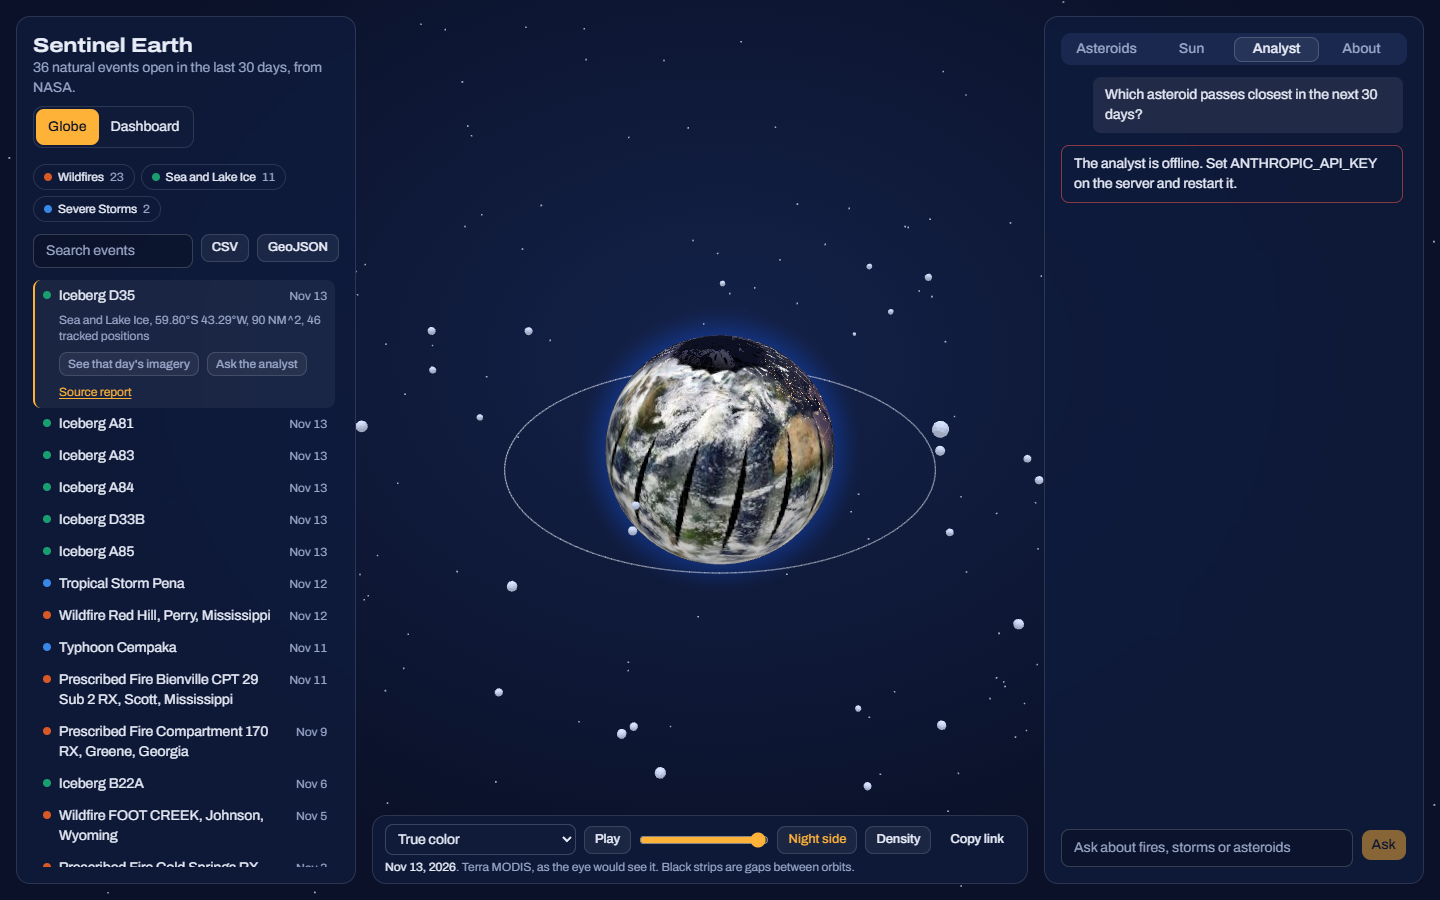
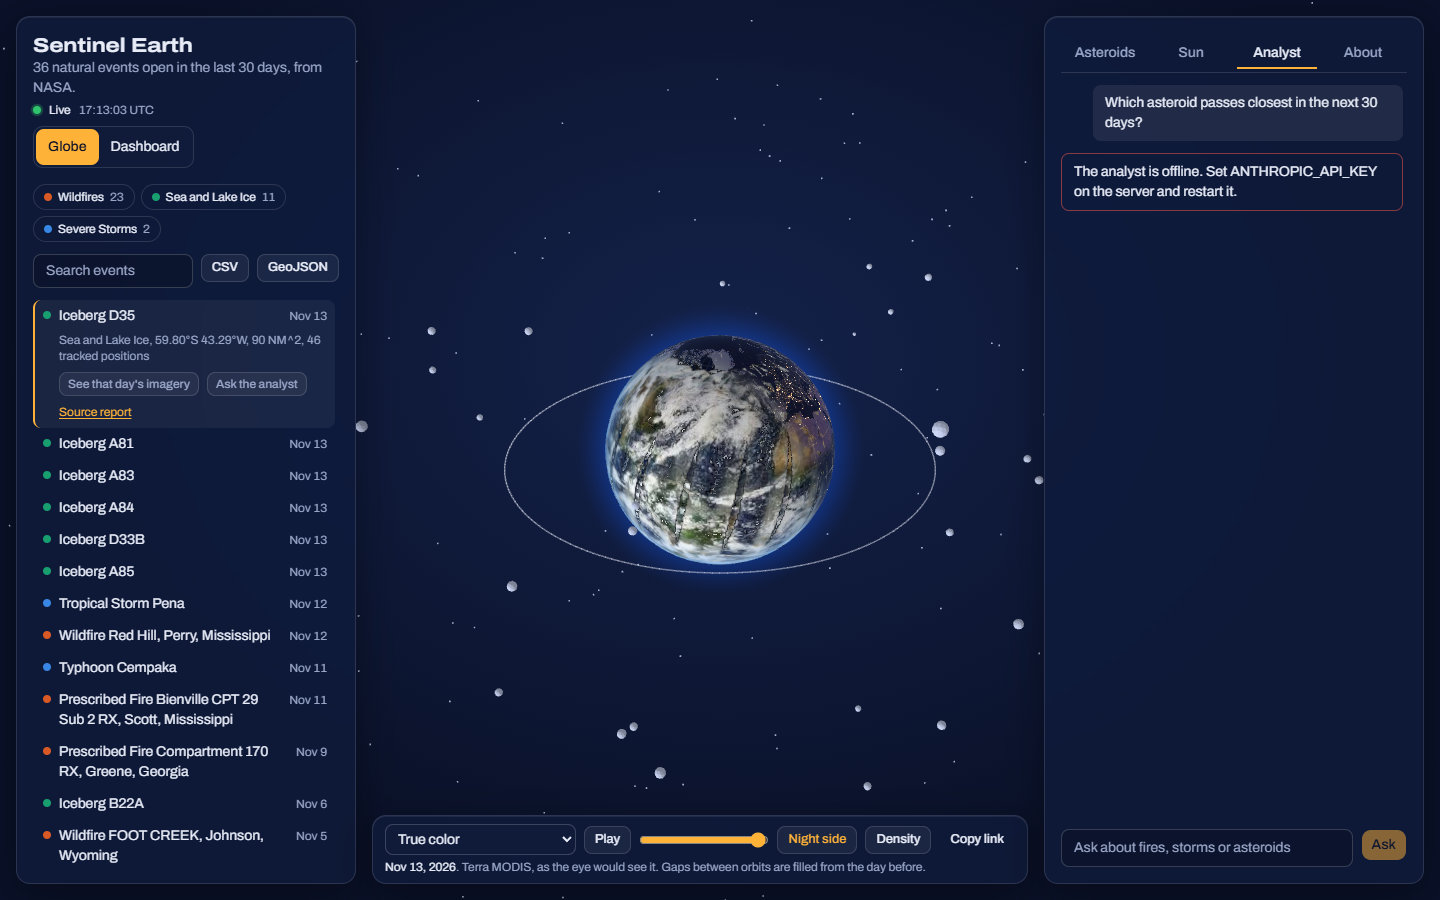
UI: live UTC clock, count-up key numbers with sparklines, tab underline, skeleton loading, press states, cursor coordinates, first-visit hint

diff --git a/src/components/Sentinel.tsx b/src/components/Sentinel.tsx
@@ -8,6 +8,7 @@ import { colorOf, LAYERS } from "@/lib/layers";
 import type { EonetEvent, EpicImage, Feed, Neo, SpaceEvent } from "@/lib/types";
 import About from "./About";
 import Analyst from "./Analyst";
+import Clock from "./Clock";
 import Dashboard from "./Dashboard";
 import GlobeView from "./GlobeView";
 import NeoPanel from "./NeoPanel";
@@ -47,8 +48,15 @@ const subscribeDesktop = (cb: () => void) => {
   return () => mq.removeEventListener("change", cb);
 };
 
+const TABS = [["events", "Events"], ["incoming", "Asteroids"], ["sun", "Sun"], ["analyst", "Analyst"], ["about", "About"]] as const;
+
 function FeedState({ error, loading, stale, retry, what }: { error?: string; loading: boolean; stale?: Feed<unknown>; retry: () => void; what: string }) {
-  if (loading) return <p className="text-sm text-muted-foreground">Loading {what}…</p>;
+  if (loading) return (
+    <div role="status" className="space-y-2.5">
+      <span className="sr-only">Loading {what}</span>
+      {[92, 78, 85, 64, 80, 70].map((w, i) => <div key={i} className="skeleton h-4" style={{ width: `${w}%` }} />)}
+    </div>
+  );
   if (error) return (
     <p role="alert" className="text-sm">
       {error} <button onClick={retry} className="text-primary underline underline-offset-2">Try again</button>
@@ -79,6 +87,15 @@ export default function Sentinel() {
   const [density, setDensity] = useState(false);
   const [copied, setCopied] = useState(false);
   const [seed, setSeed] = useState({ q: "", n: 0 });
+  // First-visit hint. Storage can be blocked (private windows), so the app works without it.
+  const [hint, setHint] = useState(() => {
+    try { return localStorage.getItem("sentinel-hint") !== "seen"; } catch { return true; }
+  });
+  const dismissHint = () => {
+    if (!hint) return;
+    setHint(false);
+    try { localStorage.setItem("sentinel-hint", "seen"); } catch { /* the hint just shows again next visit */ }
+  };
   const desktop = useSyncExternalStore(subscribeDesktop, () => window.matchMedia(desktopQuery).matches);
 
   const events = useFeed<EonetEvent>("/api/events");
@@ -142,7 +159,7 @@ export default function Sentinel() {
                 key={id}
                 aria-pressed={on}
                 onClick={() => setHidden(on ? [...hidden, id] : hidden.filter((h) => h !== id))}
-                className="flex items-center gap-1.5 rounded-full border border-border px-2.5 py-1 text-xs aria-[pressed=false]:opacity-45"
+                className="flex items-center gap-1.5 rounded-full border border-border px-2.5 py-1 text-xs hover:border-white/30 aria-[pressed=false]:opacity-45"
               >
                 <span className="size-2 rounded-full" style={{ background: colorOf(id) }} />
                 {c.title} <span className="tabular-nums text-muted-foreground">{c.n}</span>
@@ -206,6 +223,7 @@ export default function Sentinel() {
       <p className="text-sm text-muted-foreground">
         {all.length ? `${all.length} natural events open in the last 30 days, from NASA.` : "Live NASA data on fires, storms and passing asteroids."}
       </p>
+      <Clock saved={[events.feed, neos.feed, weather.feed, epic.feed].some((f) => f?.stale)} />
       </div>
       <div role="group" aria-label="View" className="pointer-events-auto inline-flex shrink-0 rounded-lg border border-border bg-card/70 p-0.5">
         {(["globe", "dashboard"] as const).map((v) => (
@@ -221,7 +239,7 @@ export default function Sentinel() {
 
   return (
     <main className="relative h-svh overflow-hidden">
-      <div className="absolute inset-x-0 top-0 h-[46svh] lg:h-full">
+      <div className="absolute inset-x-0 top-0 h-[46svh] lg:h-full" onPointerDown={dismissHint}>
         <GlobeView
           layer={layer}
           date={date}
@@ -239,6 +257,12 @@ export default function Sentinel() {
 
       {view === "dashboard" && (
         <Dashboard header={brand} events={events.feed} neos={neos.feed} weather={weather.feed} epic={epic.feed} selectedNeo={neoDes} onEvent={selectEvent} onNeo={showNeo} />
+      )}
+
+      {hint && view === "globe" && (
+        <p role="status" className="hud pointer-events-none absolute left-1/2 top-[19svh] -translate-x-1/2 whitespace-nowrap rounded-full px-4 py-2 text-sm lg:bottom-32 lg:top-auto">
+          Drag to rotate. Click a marker for details.
+        </p>
       )}
 
       {/* Hidden, not unmounted, so the analyst conversation survives a visit to the dashboard. */}
@@ -289,12 +313,17 @@ export default function Sentinel() {
         onValueChange={(v) => setTab(String(v))}
         className="hud absolute inset-x-0 bottom-0 top-[46svh] gap-3 rounded-t-xl p-3 lg:inset-x-auto lg:bottom-4 lg:right-4 lg:top-4 lg:w-[380px] lg:rounded-xl lg:p-4"
       >
-        <TabsList className="w-full">
-          {!desktop && <TabsTrigger value="events">Events</TabsTrigger>}
-          <TabsTrigger value="incoming">Asteroids</TabsTrigger>
-          <TabsTrigger value="sun">Sun</TabsTrigger>
-          <TabsTrigger value="analyst">Analyst</TabsTrigger>
-          <TabsTrigger value="about">About</TabsTrigger>
+        <TabsList variant="line" className="h-10! w-full border-b border-border">
+          {(desktop ? TABS.slice(1) : TABS).map(([value, name]) => (
+            // The underline grows from the left under the active tab.
+            <TabsTrigger
+              key={value}
+              value={value}
+              className="rounded-b-none hover:bg-white/5 after:origin-left after:scale-x-0 after:bg-primary after:opacity-100 after:transition-transform after:duration-300 data-active:after:scale-x-100 group-data-horizontal/tabs:after:bottom-[-1px]"
+            >
+              {name}
+            </TabsTrigger>
+          ))}
         </TabsList>
         {!desktop && <TabsContent value="events" className="flex min-h-0 flex-col">{eventsPanel}</TabsContent>}
         <TabsContent value="incoming" className="flex min-h-0 flex-col gap-3">

diff --git a/src/components/Dashboard.tsx b/src/components/Dashboard.tsx
@@ -1,6 +1,6 @@
 "use client";
 
-import { useMemo, useState, type MouseEvent, type ReactNode } from "react";
+import { useEffect, useMemo, useState, type MouseEvent, type ReactNode } from "react";
 import { regionOf } from "@/lib/geo";
 import { CATEGORY_ORDER, colorOf } from "@/lib/layers";
 import type { EonetEvent, EpicImage, Feed, Neo, SpaceEvent } from "@/lib/types";
@@ -73,12 +73,54 @@ function Bars({ rows, onPick, tip }: { rows: { name: string; n: number; color: s
   );
 }
 
-function Tile({ label, value, sub }: { label: string; value: string; sub: string }) {
+// Counts the first number in a value up from zero, once, when it first appears.
+function CountUp({ value }: { value: string }) {
+  const m = value.match(/\d+(\.\d+)?/);
+  const target = m ? Number(m[0]) : 0;
+  const decimals = m?.[1] ? m[1].length - 1 : 0;
+  const calm = useMemo(() => window.matchMedia("(prefers-reduced-motion: reduce)").matches, []);
+  const [shown, setShown] = useState(calm || !m ? target : 0);
+  useEffect(() => {
+    if (calm || !m) return;
+    let frame = 0;
+    const start = performance.now();
+    const step = (t: number) => {
+      const k = Math.min(1, (t - start) / 900);
+      setShown(target * (1 - (1 - k) ** 3));
+      if (k < 1) frame = requestAnimationFrame(step);
+    };
+    frame = requestAnimationFrame(step);
+    return () => cancelAnimationFrame(frame);
+  }, [target, calm, m === null]); // eslint-disable-line react-hooks/exhaustive-deps -- m is re-derived each render
+  if (!m) return <>{value}</>;
   return (
-    <div className="hud rounded-xl p-4">
+    <>
+      <span aria-hidden>{value.replace(m[0], shown.toFixed(decimals))}</span>
+      <span className="sr-only">{value}</span>
+    </>
+  );
+}
+
+// A single series, so no legend: the tile's label names it.
+function Sparkline({ values, label }: { values: number[]; label: string }) {
+  const max = Math.max(1, ...values);
+  const pts = values.map((v, i) => `${(i / (values.length - 1)) * 100},${22 - (v / max) * 20}`).join(" ");
+  return (
+    <svg viewBox="0 0 100 24" preserveAspectRatio="none" className="mt-2 h-7 w-full" role="img" aria-label={label}>
+      <title>{label}</title>
+      <polyline points={`0,24 ${pts} 100,24`} fill="rgba(255,178,56,0.12)" stroke="none" />
+      <polyline points={pts} fill="none" stroke="#FFB238" strokeWidth={2} vectorEffect="non-scaling-stroke" strokeLinejoin="round" strokeLinecap="round" />
+    </svg>
+  );
+}
+
+function Tile({ label, value, sub, spark }: { label: string; value: string; sub: string; spark?: { values: number[]; label: string } }) {
+  return (
+    <div className="hud rounded-xl p-4 transition-colors hover:border-white/20">
       <p className="text-sm text-muted-foreground">{label}</p>
-      <p className="font-heading text-3xl font-bold leading-tight tabular-nums [font-stretch:118%]">{value}</p>
+      <p className="font-heading text-3xl font-bold leading-tight tabular-nums [font-stretch:118%]">{value === "…" ? <span className="skeleton inline-block h-8 w-16 align-middle" /> : <CountUp value={value} />}</p>
       <p className="text-xs text-muted-foreground">{sub}</p>
+      {spark && spark.values.some((v) => v > 0) && <Sparkline {...spark} />}
     </div>
   );
 }
@@ -113,6 +155,8 @@ export default function Dashboard({ header, events, neos, weather, epic, selecte
     return list.map((d) => ({ d, items: all.filter((e) => e.date.slice(0, 10) === d) }));
   }, [all, now]);
   const peak = Math.max(1, ...days.map((x) => x.items.length));
+  const startedPerDay = days.map((x) => all.filter((e) => e.started.slice(0, 10) === x.d).length);
+  const passesPerDay = Array.from({ length: 30 }, (_, i) => rocks.filter((n) => Math.floor((new Date(n.date).getTime() - now) / DAY) === i).length);
 
   const regions = useMemo(() => {
     const m = new Map<string, EonetEvent[]>();
@@ -143,12 +187,23 @@ export default function Dashboard({ header, events, neos, weather, epic, selecte
         {header}
 
         <section aria-label="Key numbers" className="grid grid-cols-2 gap-3 lg:grid-cols-4">
-          <Tile label="Open natural events" value={events ? String(all.length) : "…"} sub="reported in the last 30 days" />
-          <Tile label="New this week" value={events ? String(fresh) : "…"} sub="events first reported in the last 7 days" />
+          <Tile
+            label="Open natural events"
+            value={events ? String(all.length) : "…"}
+            sub="reported in the last 30 days"
+            spark={{ values: days.map((x) => x.items.length), label: "Event reports per day over the last 30 days" }}
+          />
+          <Tile
+            label="New this week"
+            value={events ? String(fresh) : "…"}
+            sub="events first reported in the last 7 days"
+            spark={{ values: startedPerDay, label: "New events per day over the last 30 days" }}
+          />
           <Tile
             label="Closest asteroid pass"
             value={closest ? `${closest.distLd.toFixed(1)} LD` : neos ? "None" : "…"}
             sub={closest ? `${closest.des} on ${day.format(new Date(closest.date))}, ${size(closest)}` : "within 20 lunar distances, next 30 days"}
+            spark={{ values: passesPerDay, label: "Asteroid passes per day over the next 30 days" }}
           />
           {flare && !storm ? (
             <Tile label="Latest solar flare" value={flare.label.split(" ")[0]} sub={`peaked ${day.format(new Date(flare.time))}`} />

diff --git a/src/app/globals.css b/src/app/globals.css
@@ -94,3 +94,35 @@
 input[type="range"] {
   accent-color: var(--primary);
 }
+
+.hud {
+  box-shadow: 0 12px 40px rgb(0 0 0 / 35%), inset 0 1px 0 rgb(255 255 255 / 7%);
+}
+
+/* Loading placeholder: a soft sweep across a dim bar. Still when motion is reduced. */
+.skeleton {
+  border-radius: 6px;
+  background: linear-gradient(90deg, rgb(255 255 255 / 6%) 0%, rgb(255 255 255 / 13%) 50%, rgb(255 255 255 / 6%) 100%);
+  background-size: 200% 100%;
+  animation: sweep 1.4s ease-in-out infinite;
+}
+@keyframes sweep {
+  from { background-position: 100% 0; }
+  to { background-position: -100% 0; }
+}
+
+/* Every control answers the pointer: a lift on hover is the surface's job, a press nudges it down. */
+button:not(:disabled), select, a {
+  transition: background-color 150ms, color 150ms, border-color 150ms, transform 80ms, filter 150ms;
+}
+button:not(:disabled):active {
+  transform: translateY(1px);
+}
+li > button:hover, [role="group"] > button:hover {
+  background-color: rgb(255 255 255 / 6%);
+}
+
+@media (prefers-reduced-motion: reduce) {
+  .skeleton { animation: none; }
+  *, *::after { transition-duration: 0ms !important; }
+}

diff --git a/src/components/Clock.tsx b/src/components/Clock.tsx
@@ -1,0 +1,24 @@
+"use client";
+
+import { useEffect, useState } from "react";
+
+// Mission clock. Ticks in its own component so the rest of the screen does not re-render each second.
+export default function Clock({ saved }: { saved: boolean }) {
+  const [now, setNow] = useState(() => new Date());
+  useEffect(() => {
+    const t = setInterval(() => setNow(new Date()), 1000);
+    return () => clearInterval(t);
+  }, []);
+  const dot = saved ? "bg-primary" : "bg-[#2fc46b]";
+
+  return (
+    <p className="mt-1 flex items-center gap-2 text-xs text-muted-foreground">
+      <span className="relative flex size-2" aria-hidden>
+        {!saved && <span className={`absolute inline-flex size-full rounded-full opacity-60 motion-safe:animate-ping ${dot}`} />}
+        <span className={`relative size-2 rounded-full ${dot}`} />
+      </span>
+      <span className="text-foreground">{saved ? "Saved data" : "Live"}</span>
+      <time dateTime={now.toISOString()} className="tabular-nums">{now.toISOString().slice(11, 19)} UTC</time>
+    </p>
+  );
+}

diff --git a/README.md b/README.md
@@ -16,7 +16,7 @@ Sentinel Earth joins six of those services in one place:
 
 - **Natural events.** Every open event from NASA EONET for the last 30 days, on the globe and in a list you can search and filter. Moving events such as storms and icebergs show their track. Newer reports draw larger, and events from the last 48 hours pulse.
 - **Satellite imagery over time.** Five NASA GIBS layers (true color, fire and burn scars, sea surface temperature, city lights, Blue Marble) with a 30-day date slider and playback.
-- **A globe that shows the real moment.** The day/night line sits where the sun is right now, and the night side shows NASA's Black Marble city lights. A density layer shows where events cluster.
+- **A globe that shows the real moment.** The day side is lit from where the sun is right now, the night side shows NASA's Black Marble city lights, and open ocean catches the sun's glint. Gaps between satellite passes are filled from the day before, with Blue Marble underneath. Events glow as beacons, storm and iceberg tracks flow in their direction of travel, and a density layer shows where events cluster.
 - **Dashboard.** Key numbers, event reports per day, breakdowns by type and region, the asteroid timeline, space weather, today's picture of Earth and the freshness of every source. Every chart has a table view, and clicking a mark opens that event or asteroid on the globe.
 - **Space weather.** Coronal mass ejections, geomagnetic storms, high-speed solar wind streams and solar flares from NASA DONKI for the last 30 days.
 - **Earth today.** The latest full-disk photograph from the DSCOVR EPIC camera.
@@ -108,7 +108,7 @@ npm run dev                  # http://localhost:3000
 ```bash
 npm run selfcheck            # logic: sun position, regions, CSV and GeoJSON export
 npm run build
-npx next start -p 3001
+npx next start -p 3001       # on Windows, scripts/restart.ps1 rebuilds and restarts it
 npm run verify               # in a second terminal
 ```
 
